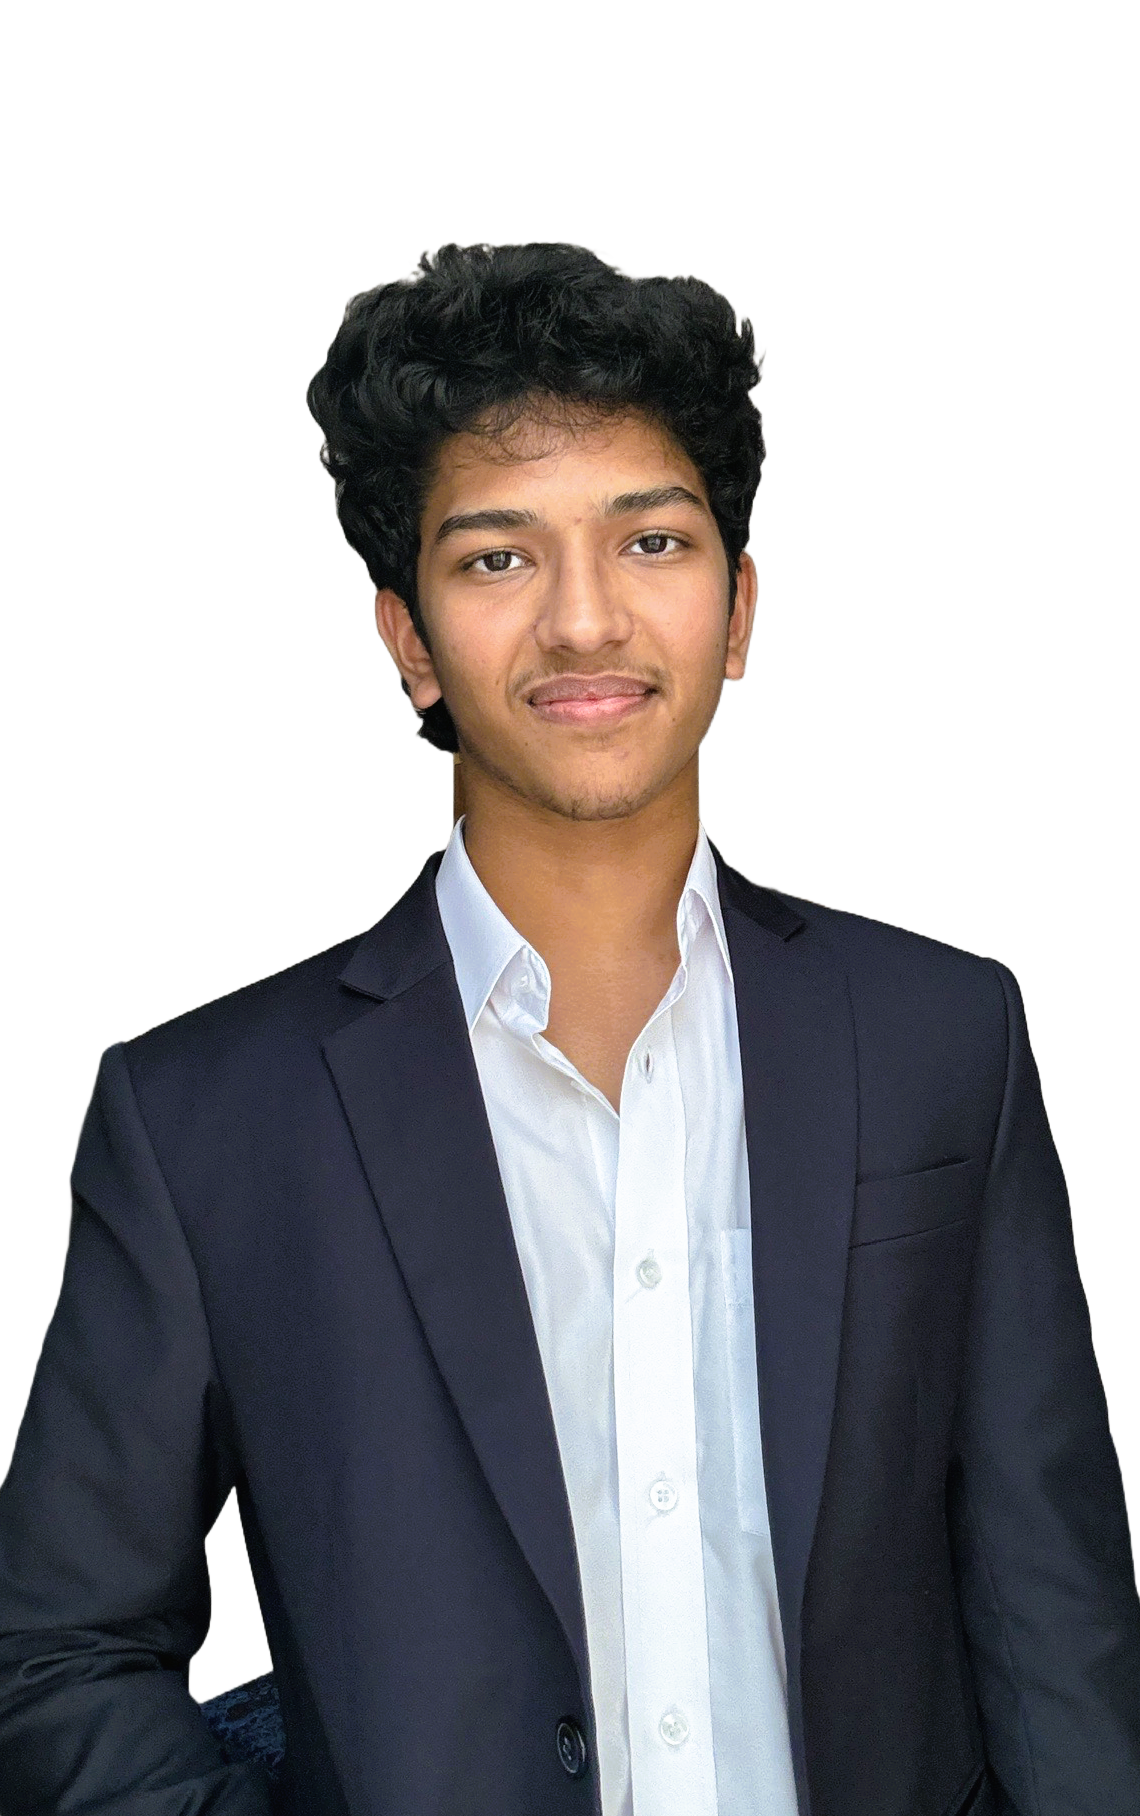
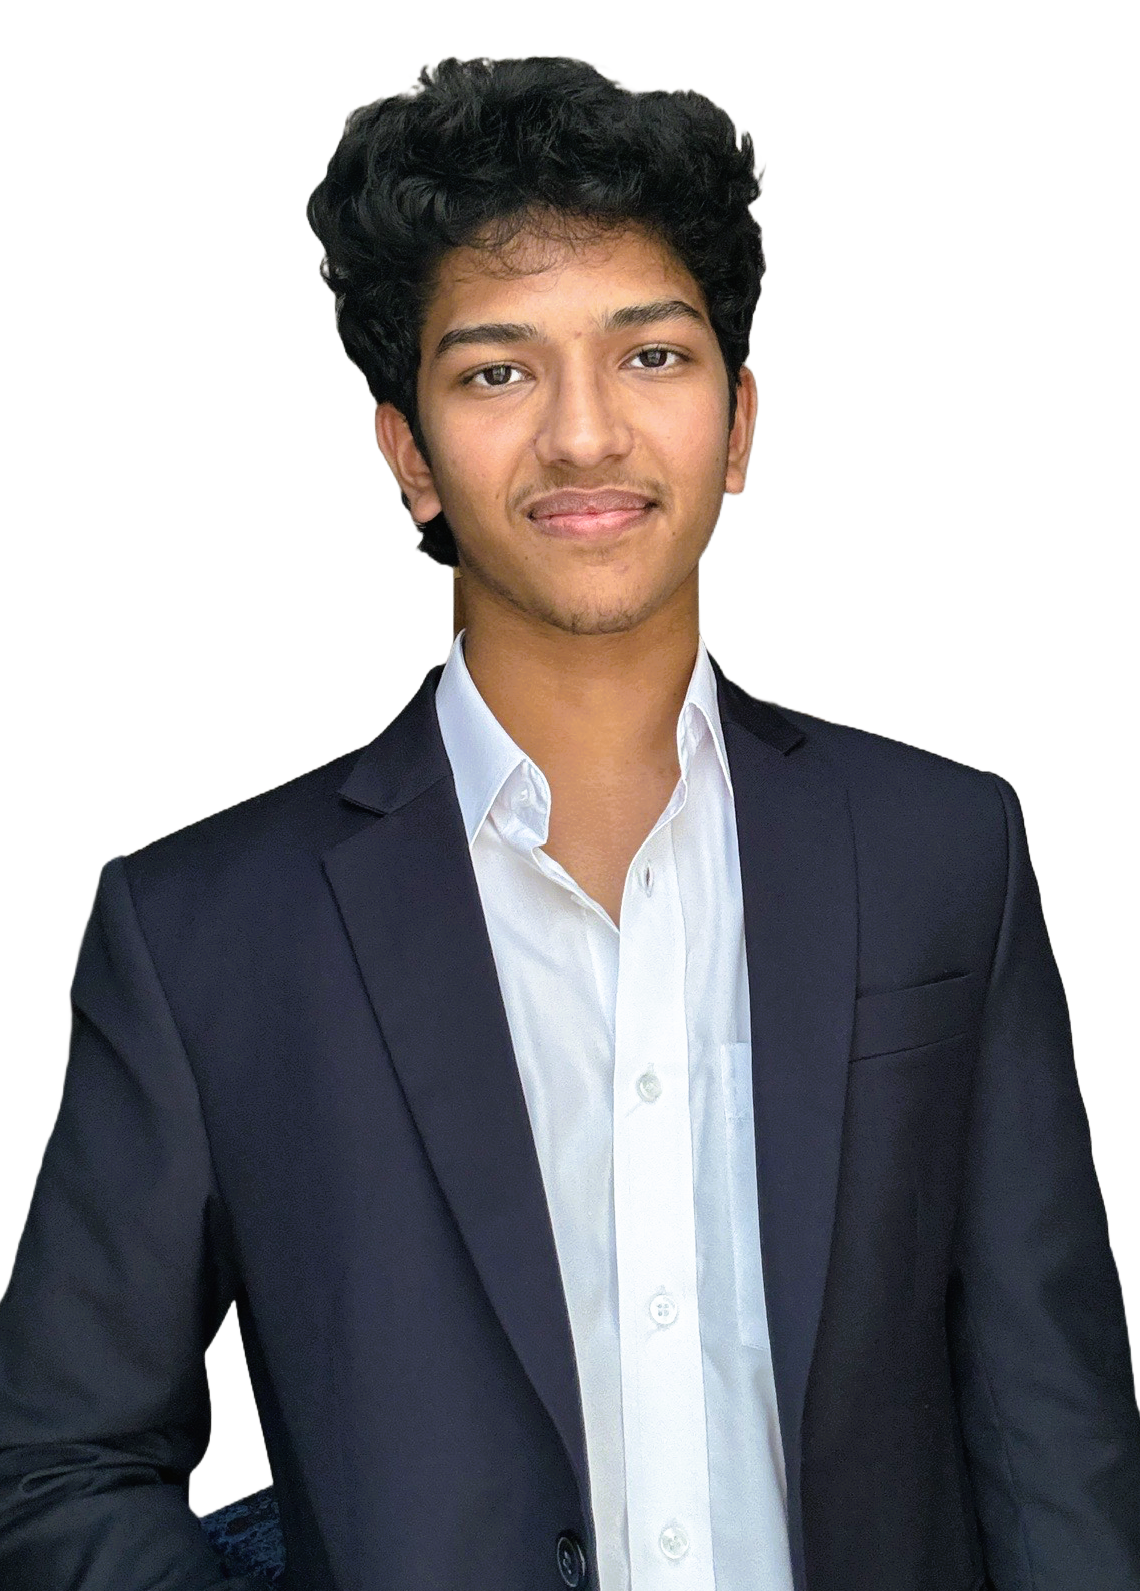
added last team picture (hopefully)

diff --git a/lib/links.ts b/lib/links.ts
@@ -458,7 +458,7 @@ export const teamLinks: TeamLink[] = [
 			{
 				name: "Anirudh Ramasubramanian",
 				pos: "Member",
-				src: "/teams/placeholder.png",
+				src: "/teams/shawarma.png",
 			},
 		],
 	},
